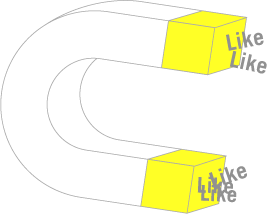
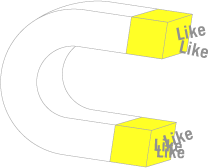
re scale image

diff --git a/public/stylesheets/layout.css b/public/stylesheets/layout.css
@@ -4,7 +4,7 @@
 
 #counter {
 	margin: 0 auto;
-  width: 825px;
+  width: 700px;
 	font-size: 20px;
 	text-align: center;
 	height: 50px;
@@ -33,14 +33,14 @@
 #header {
   margin: 0 auto;
 	height: 100px;
-  width: 825px;
+  width: 700px;
 	position: relative;
 }
   #logo {
     font-size: 20px;
     font-weight: bold;
 		position: absolute;
-		bottom: -20px;
+		bottom: 6px;
   }
 
 .section_container {
@@ -50,10 +50,10 @@
 }
   .section {
     margin: 0 auto;
-    width: 825px;
+    width: 700px;
   }
 		.section .left_col {
-			width: 510px;
+			width: 435px;
 		}
   .section_title {
     float: left;
@@ -89,19 +89,19 @@
 	}
 		
 #magnet_image {
-	margin: 10px 0 38px 0;
+	margin: 10px 0 18px 0;
 }
   
 a#magnet_download {
 	margin: 0 0 0 5px;
-	width: 244px;
-	height: 40px;
+	width: 207px;
+	height: 34px;
 	overflow: hidden;
 	display: block;
 	background: url(/images/download.png) no-repeat 0 0;
 }
 a#magnet_download:hover {
-	background-position: 0 -40px;
+	background-position: 0 -34px;
 }
 
 /* Misc
